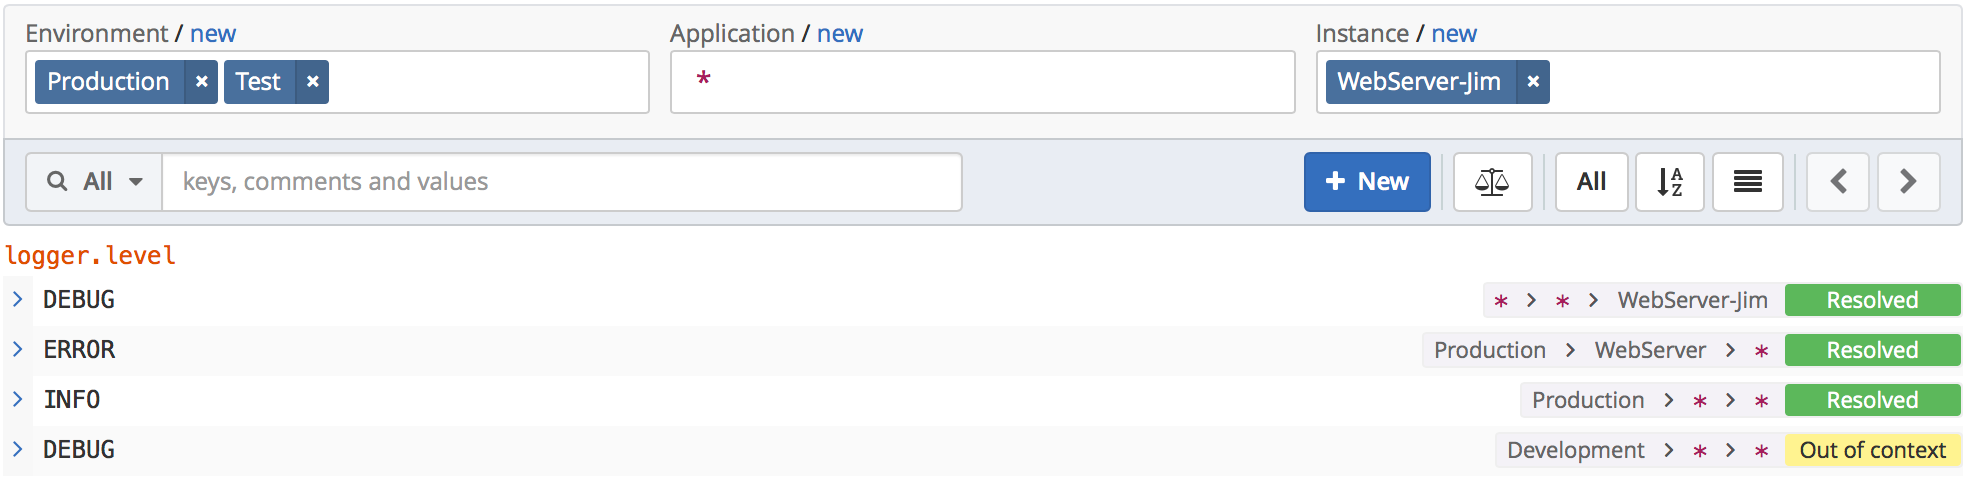
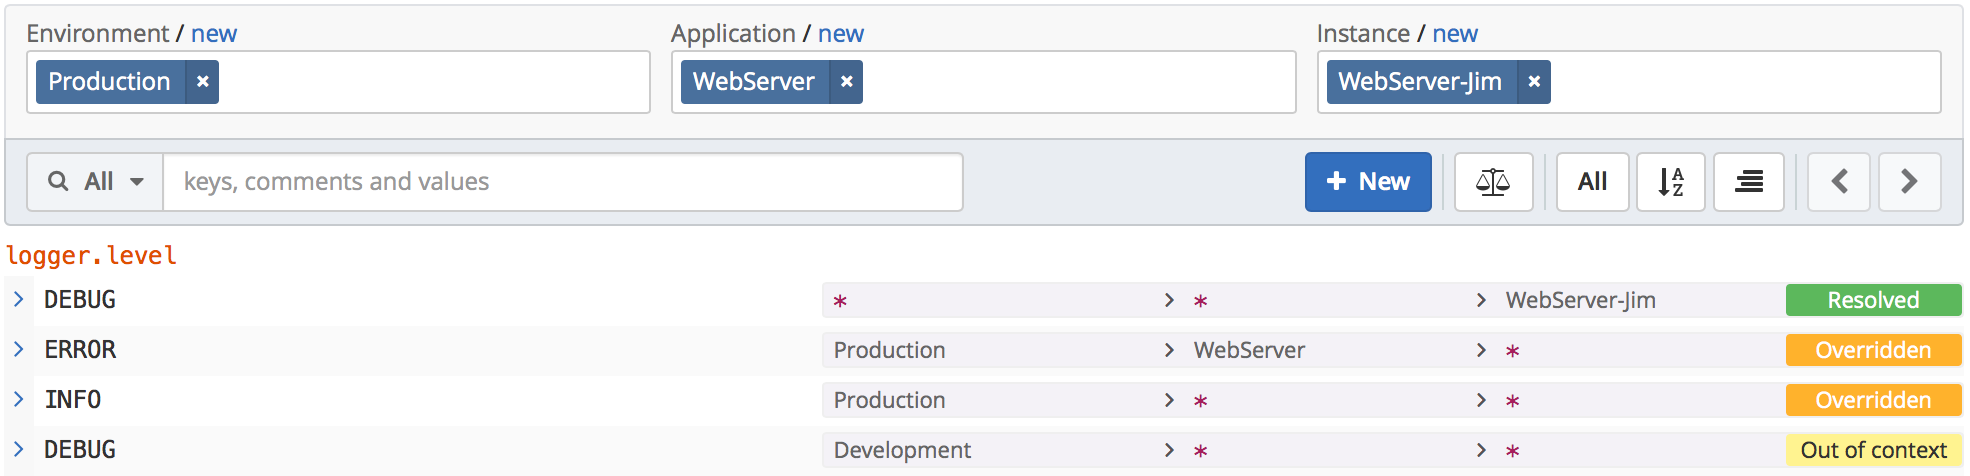
switching all help documentation to readthedocs

diff --git a/documentation/pages/primer.rst b/documentation/pages/primer.rst
@@ -124,6 +124,9 @@ Matching value to request context occurs in two steps:
    | Value-Context       | Production       | :nb:`\*`      | :nb:`\*`      | 40              |                 |
    +---------------------+------------------+---------------+---------------+-----------------+-----------------+
 
+   The value with the highest `weight` is matched, as it is the most relevant value for the given context request.
+
+   Here's the ConfigHub property editor view of the same property - with the values expanded.
 
    .. image:: /images/semanticFilter.png
 
